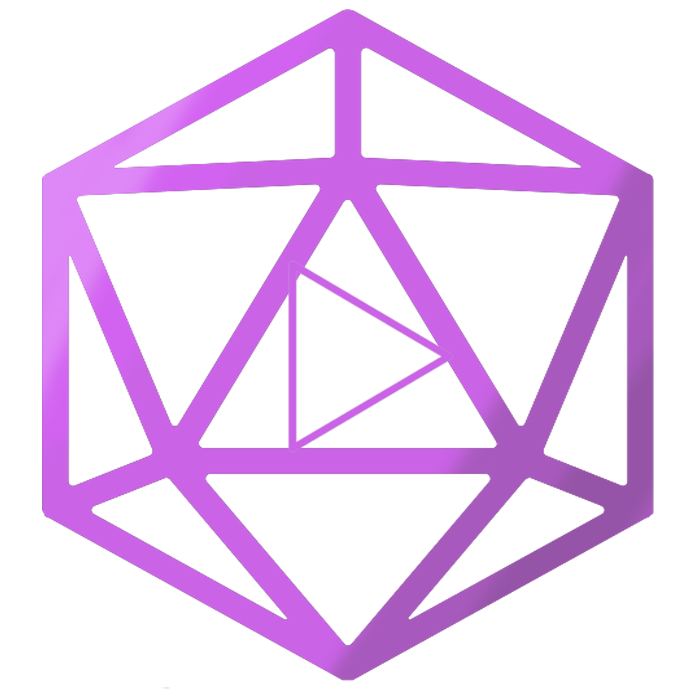
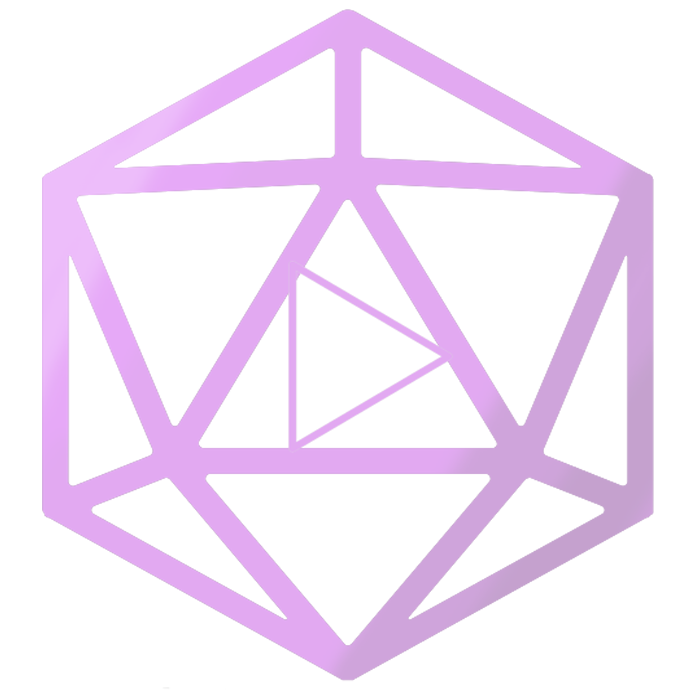
changed opacity and added getter/setter to AudioFile

Changed region(s): [[0.06, 0.0, 0.96, 0.99]]

diff --git a/AudioFile.cs b/AudioFile.cs
@@ -14,6 +14,7 @@ namespace TTRPG_Audio_Manager
         public string name { get; set; }
         public int volume { get; set; } = 100;
         public string path { get; set; }
+        public Track parentTrack { get; set; }
         public AudioFile(Track parentTrack, string path)
         {
             this.path = path;

diff --git a/Track.cs b/Track.cs
@@ -24,7 +24,7 @@ namespace TTRPG_Audio_Manager
         public bool shuffle { get; set; } = false;
         public Scene parentScene;
 
-        public Track(string name)
+        //public Track(string name) { }
         public Track(Scene parentScene, string name)
         {
             this.name = name;
